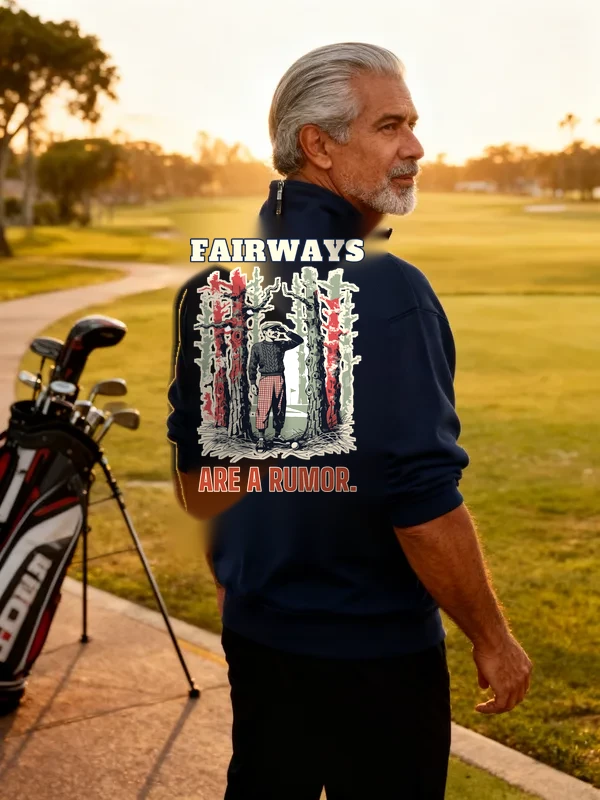
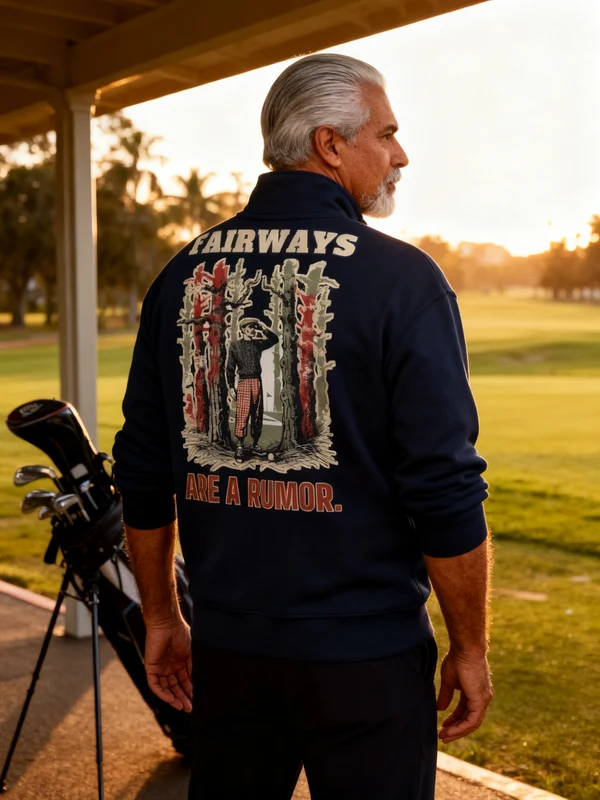
[B] review 542 Fairways Are a Rumor half zip (clean cover)

diff --git a/docs/intake-log.md b/docs/intake-log.md
@@ -1,5 +1,6 @@
 RUNNING lane B since 2026-10-18 08:30 UTC
 2026-10-18 08:24 UTC — [D] Director run: inbox nothing new. Reviewed 13 REVIEW sheets: 11 LIVE (#581 mechanic, #578 pit bull vacuum, #604 fishing hoodie, #605 gym cropped hoodie, #584 car guy, #539 welder dimes, #635 fishing wife zip, #580 drummer, #623 Christmas tree oversized hoodie, #558 cat brain cell zip, #625 rack your weights oversized hoodie), all ACTIVE + Online Store/Headless/Google & YouTube, every audit --handle PASS 0 warn. Copy fixes in Shopify: #578/#539 FAQ claimed dark ink on dark shirts, #605 script called navy (it's cream), #584/#623/#625 'one of the <keyword>' phrasing (R8.3). 2 REDO: #606 Sand file still prints MILE ONE white with a keyline (R5.3.8), #607 cover holds a strung tennis racket on a pickleball hoodie (R6.5/R13.3). Rulebook: R5.3.8 'a light file means the headline changes ink' (3rd hit), R8.3 'one of the <keyword>' + no templated ink claims. #581 #625 to reference/best. 3 lane C briefs #637-#639 (welding hoodie 1,900/KD16, pit bull hoodie 1,300/KD22, car guy hoodie 390/KD36), registry 977-979, keyword map updated. READY: A 12, B 12, C 6, E 12. Lane C stays under 12: RankHero measured no other unclaimed hoodie phrase for a LIVE design without a near-copy (R11.5 'no near-copies to hit a number'); keyword-gap.py's JUNK filter drops hoodie/sweatshirt autocomplete, so hoodie long-tails must be measured directly. No Telegram (not a digest run, nothing needs Sam). Lock released.
+2026-10-18 08:46 UTC — [B] REVIEW #542 Men's Golf Fairways Are a Rumor half zip (cover redo: clean fal cover, no composite patch; fal ~$0.06)
 2026-10-18 08:24 UTC — [D] Late REVIEW #577 Making Biscuits hoodie sent back REDO: Sand headline is cream with a keyline (R5.3.8, 4th hit); cover is Sand, so it gets the recomposite.
 2026-10-18 07:50 UTC — [B] REVIEW #584 Men's Car Guy I Speak Fluent Rattle tee — 70/70 synced; default file 49 on 1088709857 and 21 on 1088709846 (dark/light ink), back logo on all
 2026-10-18 07:47 UTC — [H] Helper run: Telegram getUpdates returned nothing (no pause, resume, TikTok links or other messages; nothing to consume). Audit: 548 products, 0 errors, 29 warnings left alone (polish only); cohesion-audit.md committed. Category backfill: 0 products without a category (0 to set). Price errors zero; announcement bar not touched by this run. Site freshness: 3 newest ACTIVE pages all 200 (womens-christmas-capybara-tangled-unbothered-graphic-tee, unisex-dachshund-banned-from-stairs-graphic-tee, mens-drummer-the-neighbors-love-me-hoodie). Stuck check: none (BUILDING items all committed within 141 min; lane A lock 06:29, lane C 07:27, lane E 05:15 with heartbeat 07:27 so not stale). Daily summary not due (first run after 12:00 UTC). npm ci run to get the audit working. Lock released.

diff --git a/docs/pipeline/542-golf-half-zip-fairways-are-a-rumor.md b/docs/pipeline/542-golf-half-zip-fairways-are-a-rumor.md
@@ -1,4 +1,4 @@
-status: BUILDING [B] 2026-10-18 08:30 UTC
+status: REVIEW
 lane: B
 type: new
 id: 542
@@ -32,3 +32,4 @@ shopify: gid://shopify/Product/15364624613680
 - 2026-10-18 04:20 UTC director: REDO (cover only; art, copy and sync are good). 1) R6.1/R6.3: slide 1 must be a fal lifestyle cover with a man (men's), not the flat back mockup. Fal is funded, so temp covers no longer ship. Pose him from behind or three-quarter back on a wooded fairway edge so the back print shows, using the back Navy mockup as --design; flatten onto the garment color (R6.7). 2) If the model garbles FAIRWAYS / ARE A RUMOR., composite the print from the mockup (R6.9 Doe-Eyed method). One extra attempt per R6.9.
 - 2026-10-18 06:34 UTC builder [B]: REDO cover done. Registry #882 man, Navy back mockup as --design, seedream try 1 (fal ~$0.06): turned three-quarter back on a first tee, hood-less half zip, but the model garbled ARE A RUMOR (arm over the A) and shrank the art, so composited the exact Navy print file onto the back (R6.9, 175 px of 600 wide); every word reads, hair and arms clear of it. Faint inpaint softness at the left sleeve edge only. Art, copy and sync unchanged.
 - 2026-10-18 07:22 UTC director: REDO, cover only (stays DRAFT; art, mockups and copy pass). R6.8 / R6.9: the back-print composite on the cover sits on a dark rectangular patch with blurred edges that spills past the jacket outline into the golf-course background (left of his arm, right of the collar, and a light smear below ARE A RUMOR.). Re-composite the print from the Navy back mockup with a mask limited to the garment (multiply, folds showing through), no patch outside his back, then zoom to 200%. One extra attempt allowed per R6.9 if regenerating with the back mockup as --design is cleaner. Remake docs/review/542.jpg, then REVIEW.
+- 2026-10-18 08:45 UTC builder [B]: REDO cover done. Discarded the patched composite; one fresh fal attempt (seedream, Navy back mockup as --design, registry #882, fal ~$0.06): three-quarter back on a first tee, stand-collar half zip, no hood; FAIRWAYS / ARE A RUMOR. and the art all read, hair and arms clear, no patch or smear (checked once). No composite needed. Review sheet remade.
